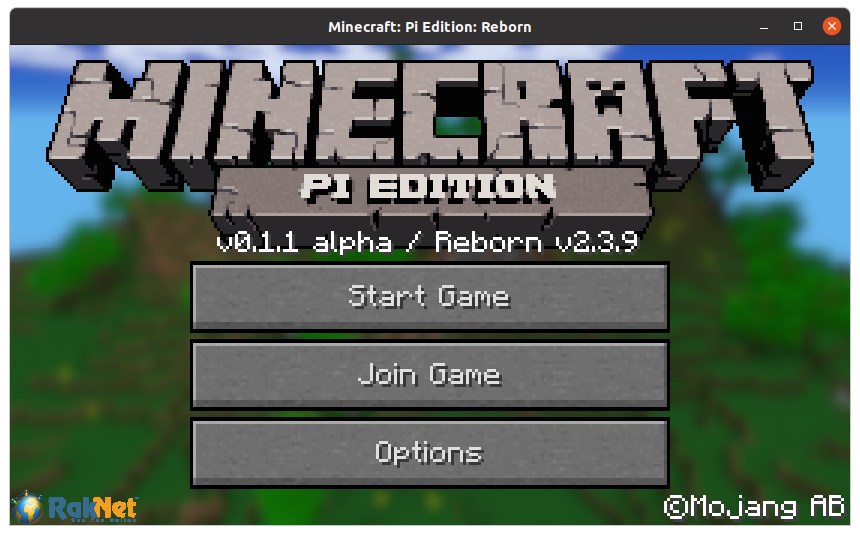
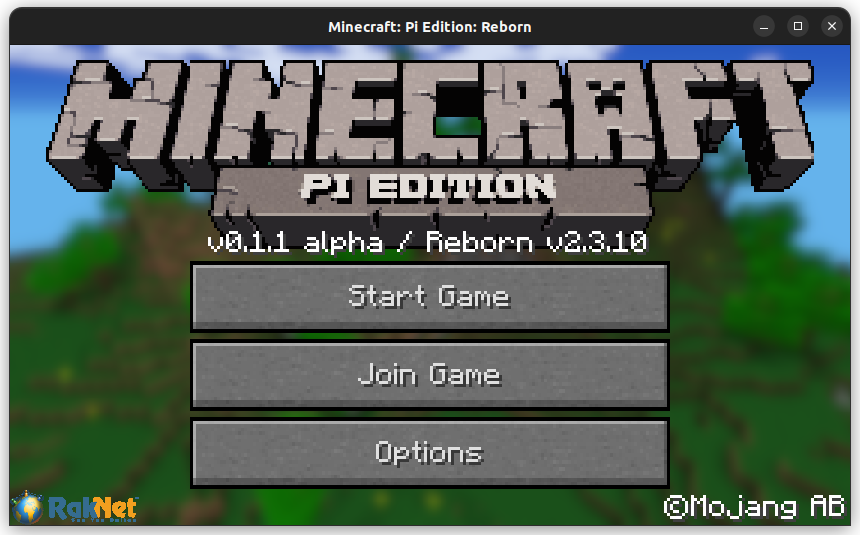
2.3.10

Changed region(s): [[0.0, 0.0, 1.0, 1.0], [0.2419, 0.4187, 0.7558, 0.4785]]

diff --git a/launcher/src/crash-report.c b/launcher/src/crash-report.c
@@ -24,7 +24,7 @@ static void show_report(const char *log_filename) {
         "--width", CRASH_REPORT_DIALOG_WIDTH,
         "--height", CRASH_REPORT_DIALOG_HEIGHT,
         "--text-info",
-        "--text", "Minecraft: Pi Edition: Reborn has crashed!",
+        "--text", "Minecraft: Pi Edition: Reborn has crashed!\n\nNeed help? Consider asking on the <a href=\"https://discord.com/invite/aDqejQGMMy\">Discord server</a>!",
         "--filename", log_filename,
         "--no-wrap",
         "--font", "Monospace",

diff --git a/docs/CHANGELOG.md b/docs/CHANGELOG.md
@@ -1,5 +1,12 @@
 # Changelog
 
+**2.3.10**
+* Add Crash Report Dialog
+* Disable V-Sync By Default
+* Refactor Child Process Management
+* Improve Build System
+  * Support For Building On Ubuntu 22.04
+
 **2.3.9**
 * Bundle An ARM Sysroot
   * Not Used On ARM32 Systems
